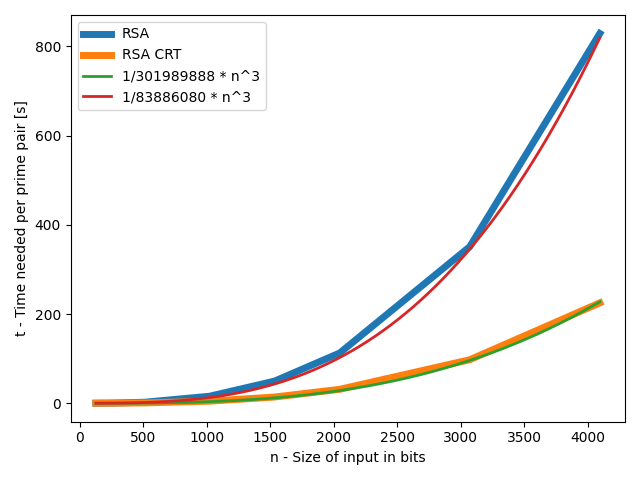
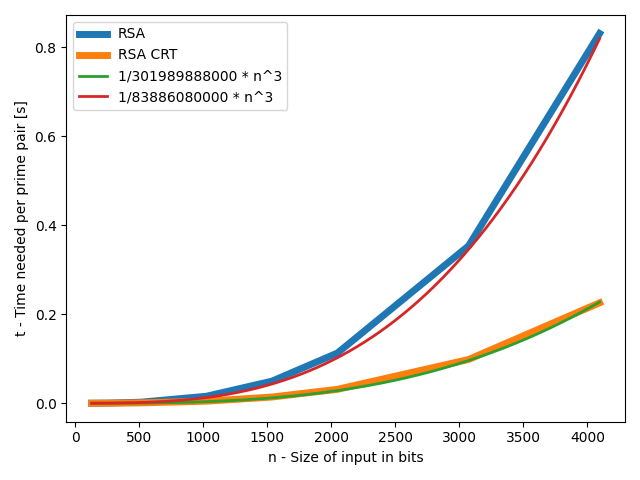
Poprawilem, wykres. Teraz leci srednia a nie suma

diff --git a/Kartografia/homework-5/simulation.py b/Kartografia/homework-5/simulation.py
@@ -51,17 +51,18 @@ def measure_time_of_primes(prime_pairs: list):
 
 
 def gather_data_from_file(filepath: str):
+    AMOUNT_OF_PAIRS=1000
     with open(filepath, 'r') as file:
         primes = list(map(int, file.read().split('\n')[:-1]))
     pairs = []
-    while len(pairs) != 1000:
-        pair = tuple(random.sample(primes, 2))
-        if pair not in pairs:
-            pairs.append(pair)
+    while len(pairs) != AMOUNT_OF_PAIRS:
+        p,q = tuple(random.sample(primes, 2))
+        if (p, q) not in pairs and (q, p) not in pairs:
+            pairs.append((p, q))
 
     time_data = [measure_time_of_two_primes(*pair) for pair in pairs]
-    rsa_time = sum([x[0] for x in time_data])
-    rsa_crt_time = sum([x[1] for x in time_data])
+    rsa_time = sum([x[0] for x in time_data])/AMOUNT_OF_PAIRS
+    rsa_crt_time = sum([x[1] for x in time_data])/AMOUNT_OF_PAIRS
 
     return rsa_time, rsa_crt_time
 

diff --git a/Kartografia/homework-5/visualise.py b/Kartografia/homework-5/visualise.py
@@ -28,8 +28,8 @@ def visualise_with_estimations(filepath: str):
     plots = [
         [Xs, rsa_time_values, "RSA", 5],
         [Xs, rsa_crt_time_values, "RSA CRT", 5],
-        [XsForEstimation, [1/(2**27 * 2.25)*x**3 for x in XsForEstimation], f"1/{round((2**27 * 2.25))} * n^3", 2],
-        [XsForEstimation, [1/(2**25 * 2.5)*x**3 for x in XsForEstimation], f"1/{round((2**25 * 2.5))} * n^3", 2]
+        [XsForEstimation, [1/(2**27 * 2.25 * 1000)*x**3 for x in XsForEstimation], f"1/{round(2**27 * 2.25 * 1000)} * n^3", 2],
+        [XsForEstimation, [1/(2**25 * 2.5 * 1000)*x**3 for x in XsForEstimation], f"1/{round(2**25 * 2.5 * 1000)} * n^3", 2]
     ]
 
     for X, values, label, linewidth in plots:
